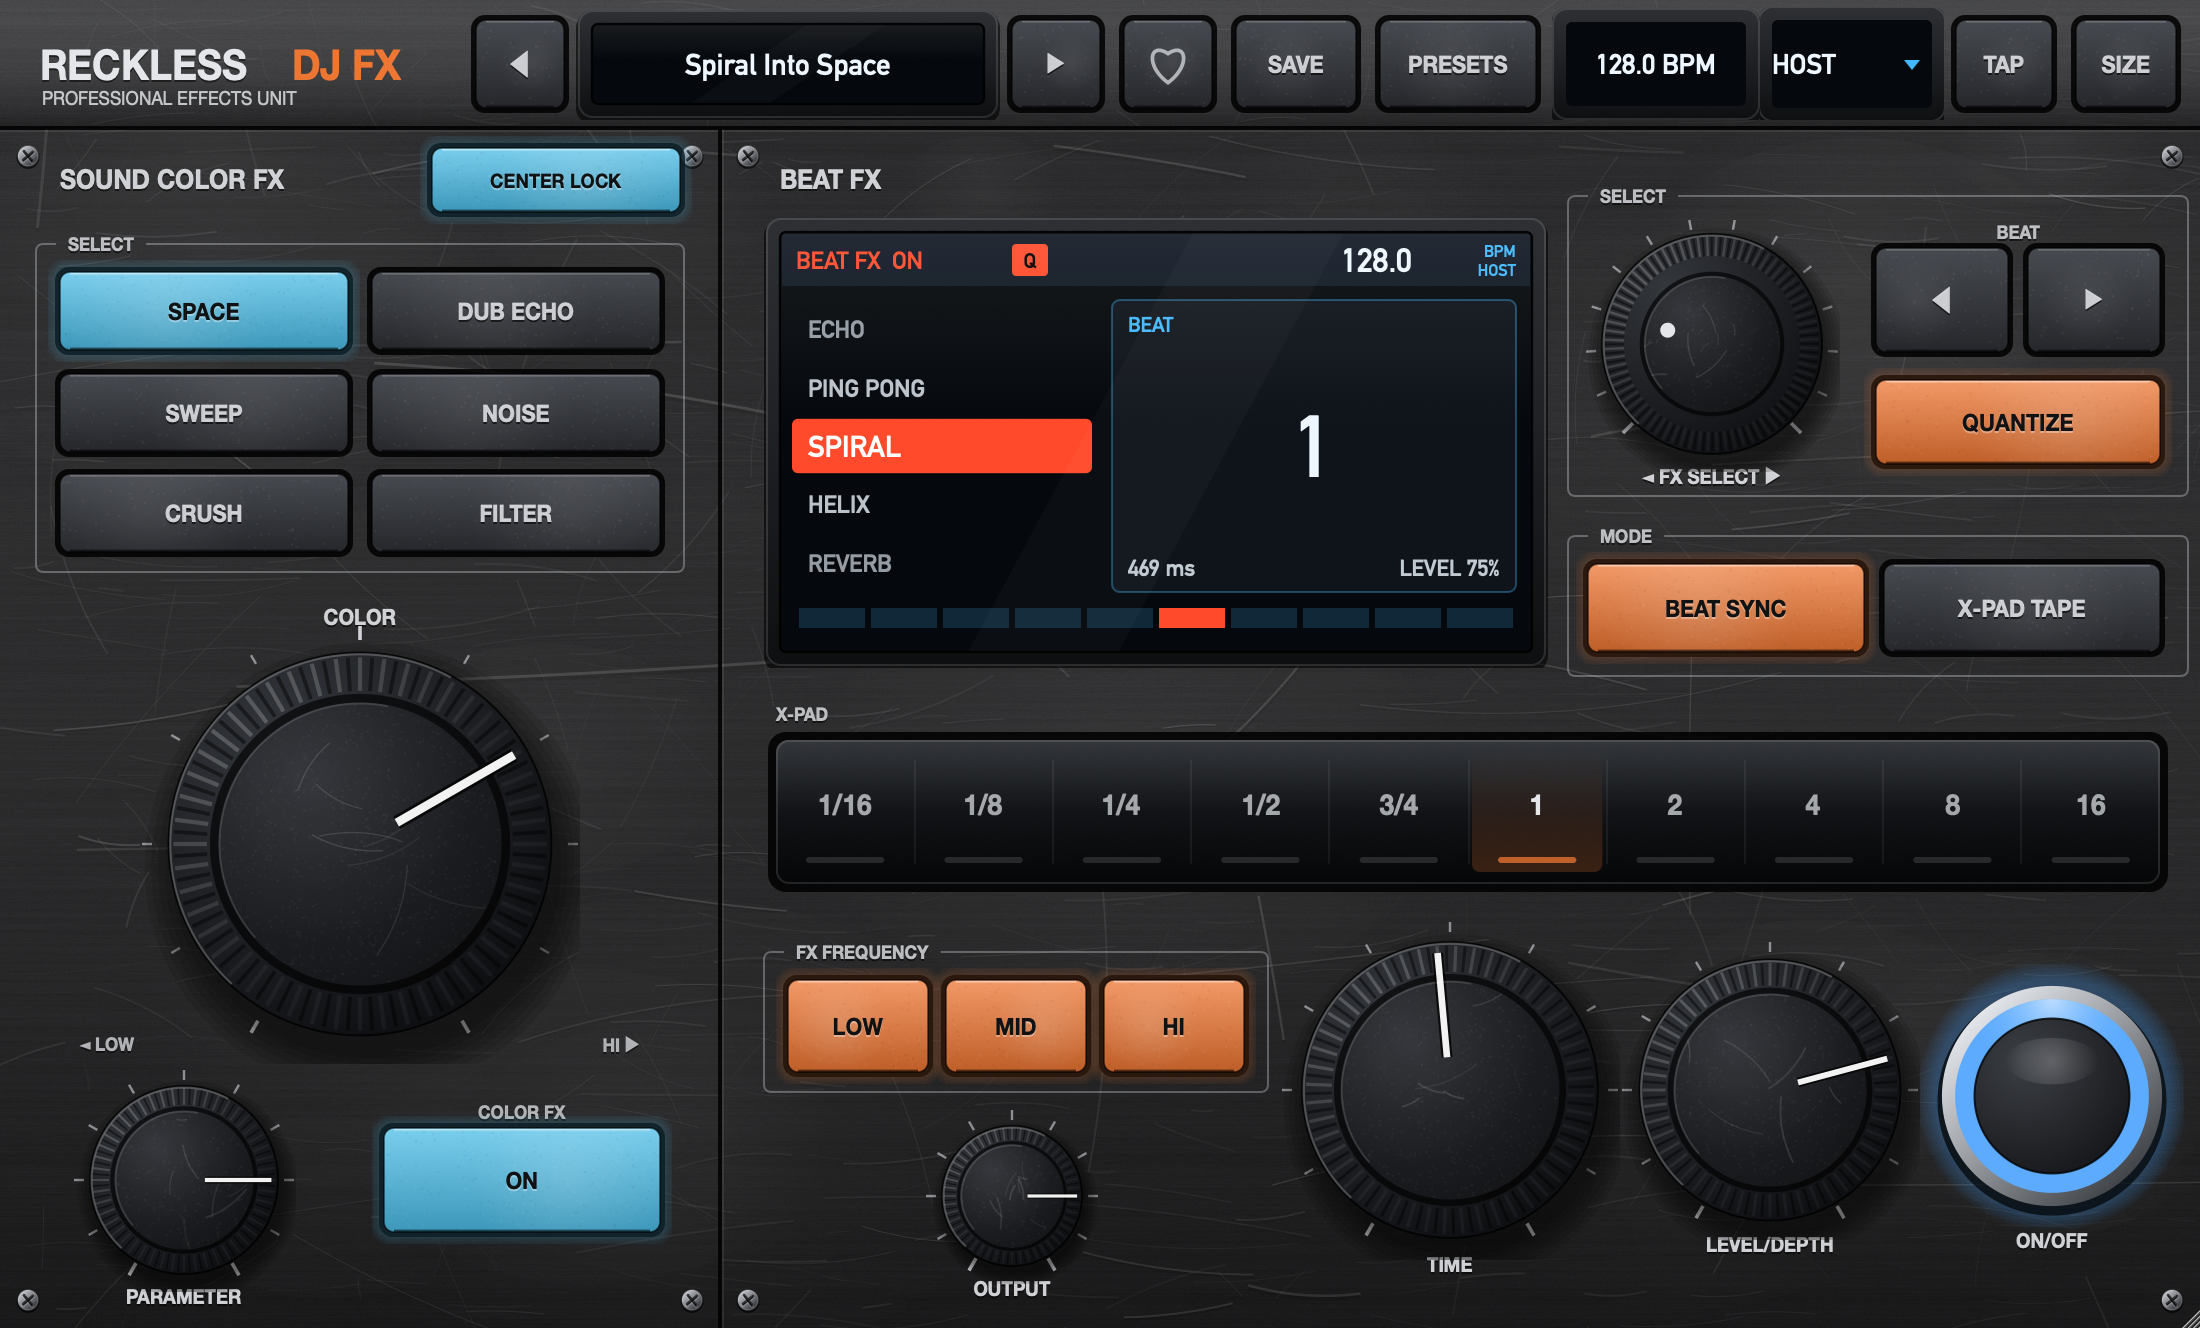
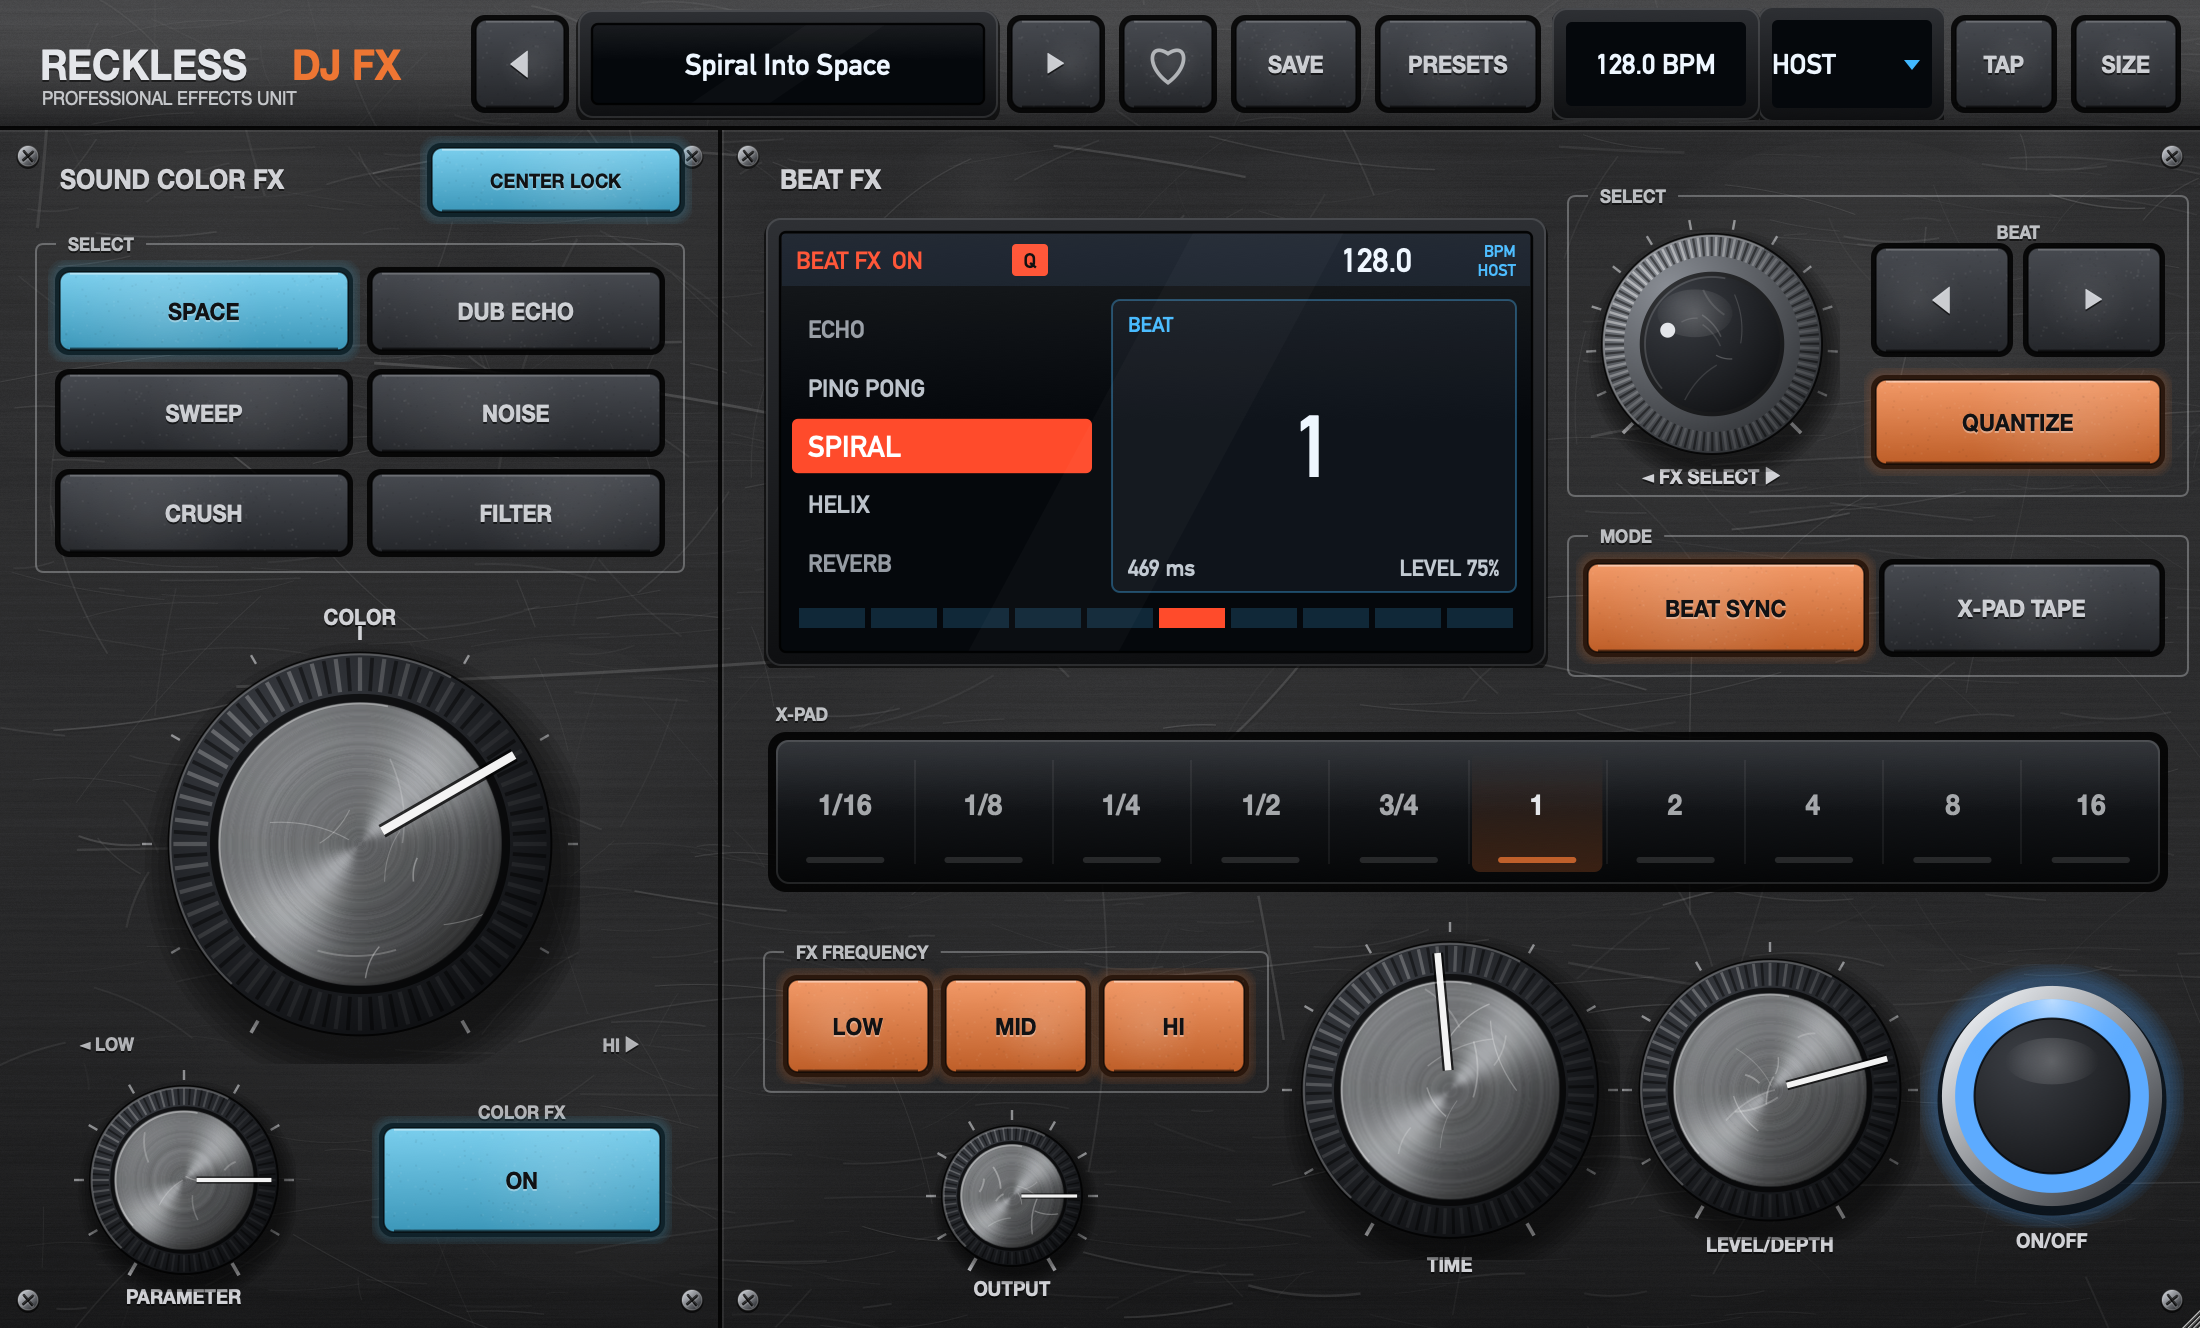
Back to brushed-aluminium knob caps (user preference)
All knobs get the spun-aluminium cap again (PARAMETER and OUTPUT too);
the FX SELECT encoder keeps its metal knurl with a small black cap.
Audit fixes (hover ring, softer LEDs, dark legends...) are kept.

diff --git a/Source/ui/Hardware.cpp b/Source/ui/Hardware.cpp
@@ -70,6 +70,47 @@ void scratch (juce::Graphics& g, juce::Random& rng, juce::Rectangle<float> area,
         g.strokePath (p, juce::PathStrokeType (width * 0.8f));
     }
 }
+/** Spun-aluminium cap rendered per pixel (no wedge seams): light gradient, concentric lathe rings
+    and the anisotropic "bow-tie" highlight typical of turned metal. Cached by pixel size. */
+const juce::Image& spunCap (int diameter, juce::uint32 seed)
+{
+    static std::map<std::pair<int, juce::uint32>, juce::Image> cache;
+    auto key = std::make_pair (diameter, seed);
+    if (auto it = cache.find (key); it != cache.end())
+        return it->second;
+
+    juce::Image img (juce::Image::ARGB, diameter, diameter, true);
+    juce::Random rng ((juce::int64) seed);
+    const float R = (float) diameter * 0.5f;
+    std::vector<float> rings ((size_t) diameter + 2);
+    float drift = 0.0f;
+    for (auto& v : rings)
+    {
+        drift = drift * 0.7f + (rng.nextFloat() - 0.5f) * 0.05f;
+        v = drift + (rng.nextFloat() - 0.5f) * 0.035f;
+    }
+
+    juce::Image::BitmapData data (img, juce::Image::BitmapData::writeOnly);
+    for (int y = 0; y < diameter; ++y)
+        for (int x = 0; x < diameter; ++x)
+        {
+            const float dx = (float) x + 0.5f - R, dy = (float) y + 0.5f - R;
+            const float dist = std::sqrt (dx * dx + dy * dy);
+            if (dist > R + 0.5f)
+                continue;
+            const float edgeAlpha = juce::jlimit (0.0f, 1.0f, R + 0.5f - dist);
+            const float th = std::atan2 (dy, dx);
+            const float lin = -(dx + dy) / (R * 1.4142f);                              // light from top-left
+            const float aniso = std::pow (std::abs (std::cos (th + juce::MathConstants<float>::pi * 0.25f)), 10.0f);
+            const float centreFade = juce::jlimit (0.0f, 1.0f, dist / (R * 0.15f));
+            float lum = 0.58f + 0.22f * lin + 0.40f * aniso * centreFade + rings[(size_t) (dist * 1.6f) % rings.size()];
+            lum -= 0.10f * std::pow (dist / R, 6.0f);                                  // darker rim
+            const auto v = (float) juce::jlimit (0.0f, 1.0f, lum);
+            data.setPixelColour (x, y, juce::Colour::fromFloatRGBA (v * 0.97f, v * 0.985f, v, edgeAlpha));
+        }
+
+    return cache.emplace (key, img).first->second;
+}
 } // namespace
 
 juce::uint32 seedOf (const juce::String& s) { return (juce::uint32) s.hashCode(); }
@@ -253,22 +294,23 @@ void drawKnob (juce::Graphics& g, juce::Rectangle<float> bounds, float angle, Kn
     }
 
     // Skirt
-    const bool fineKnurl = style == KnobStyle::Encoder;
+    const bool metalSkirt = style == KnobStyle::Encoder;
     {
-        juce::ColourGradient grad (juce::Colour (0xff34373c), c.translated (-r * 0.4f, -r * 0.5f),
-                                   juce::Colour (0xff07080a),
+        juce::ColourGradient grad (metalSkirt ? juce::Colour (0xff8a8e95) : juce::Colour (0xff3b3e44),
+                                   c.translated (-r * 0.4f, -r * 0.5f),
+                                   metalSkirt ? juce::Colour (0xff1e2023) : juce::Colour (0xff07080a),
                                    c.translated (r * 0.9f, r * 0.9f), true);
         g.setGradientFill (grad);
         g.fillEllipse (juce::Rectangle<float> (r * 2.0f, r * 2.0f).withCentre (c));
     }
 
     // Knurling (rotates with the knob)
-    const int ridges = fineKnurl ? 72 : 48;
+    const int ridges = metalSkirt ? 72 : 48;
     for (int k = 0; k < ridges; ++k)
     {
         const float th = angle + twoPi * (float) k / (float) ridges;
         const float lit = juce::jmax (0.0f, std::cos (th - kLightDir));
-        g.setColour (juce::Colours::white.withAlpha (0.04f + 0.16f * lit));
+        g.setColour (juce::Colours::white.withAlpha ((metalSkirt ? 0.10f : 0.05f) + (metalSkirt ? 0.35f : 0.20f) * lit));
         g.drawLine ({ polar (c, r * 0.80f, th), polar (c, r * 0.975f, th) }, juce::jmax (0.7f, r * 0.022f));
         const float th2 = th + twoPi * 0.5f / (float) ridges;
         g.setColour (juce::Colours::black.withAlpha (0.45f));
@@ -289,26 +331,26 @@ void drawKnob (juce::Graphics& g, juce::Rectangle<float> bounds, float angle, Kn
     g.setColour (juce::Colours::black.withAlpha (0.65f));
     g.fillEllipse (capRect.expanded (capR * 0.06f));
 
-    // Matte black plastic cap: soft diffuse shading, no specular, fine grain
+    const bool metalCap = style != KnobStyle::Encoder;
+    if (metalCap)
     {
-        juce::ColourGradient grad (juce::Colour (0xff2c2e33), c.translated (-capR * 0.45f, -capR * 0.55f),
-                                   juce::Colour (0xff111214), c.translated (capR * 0.9f, capR * 0.9f), true);
+        // Render the cap at the device resolution so it stays crisp when the editor is scaled up
+        const float pixelScale = juce::jmax (1.0f, g.getInternalContext().getPhysicalPixelScaleFactor());
+        // quantised to 16 px steps so free resizing does not fill the cache with every size
+        const int diameter = juce::jlimit (32, 1024, ((juce::roundToInt (capR * 2.0f * pixelScale) + 15) / 16) * 16);
+        g.drawImage (spunCap (diameter, seed), capRect, juce::RectanglePlacement::stretchToFit);
+    }
+    else
+    {
+        juce::ColourGradient grad (juce::Colour (0xff3a3d43), c.translated (-capR * 0.5f, -capR * 0.6f),
+                                   juce::Colour (0xff0c0d0f), c.translated (capR * 0.9f, capR * 0.9f), true);
         g.setGradientFill (grad);
         g.fillEllipse (capRect);
-        g.setGradientFill (juce::ColourGradient (juce::Colours::white.withAlpha (0.05f), c.translated (-capR * 0.3f, -capR * 0.4f),
-                                                 juce::Colours::transparentWhite, c.translated (capR * 0.6f, capR * 0.2f), true));
-        g.fillEllipse (capRect);
-
-        juce::Graphics::ScopedSaveState save (g);
-        juce::Path clip;
-        clip.addEllipse (capRect);
-        g.reduceClipRegion (clip);
-        const int grains = (int) (capR * capR * 0.35f);
-        for (int i = 0; i < grains; ++i)
-        {
-            g.setColour ((rng.nextBool() ? juce::Colours::white : juce::Colours::black).withAlpha (0.035f));
-            g.fillRect (capRect.getX() + rng.nextFloat() * capRect.getWidth(), capRect.getY() + rng.nextFloat() * capRect.getHeight(), 1.0f, 1.0f);
-        }
+        // Glossy specular blob
+        const auto spec = juce::Rectangle<float> (capR * 1.1f, capR * 0.7f).withCentre (c.translated (-capR * 0.25f, -capR * 0.45f));
+        g.setGradientFill (juce::ColourGradient (juce::Colours::white.withAlpha (0.20f), spec.getCentre(),
+                                                 juce::Colours::transparentWhite, spec.getTopRight(), true));
+        g.fillEllipse (spec);
     }
 
     // Wear: scratches on the cap (rotate with the knob)
@@ -328,7 +370,7 @@ void drawKnob (juce::Graphics& g, juce::Rectangle<float> bounds, float angle, Kn
             s.startNewSubPath (p0);
             s.quadraticTo (p0 + juce::Point<float> (std::cos (dir + 0.3f), std::sin (dir + 0.3f)) * len * 0.5f,
                            p0 + juce::Point<float> (std::cos (dir), std::sin (dir)) * len);
-            g.setColour (juce::Colours::white.withAlpha (0.05f + rng.nextFloat() * 0.08f)); // faint scuffs on matte plastic
+            g.setColour (juce::Colours::white.withAlpha ((metalCap ? 0.18f : 0.10f) + rng.nextFloat() * 0.15f));
             g.strokePath (s, juce::PathStrokeType (0.5f + rng.nextFloat() * 0.5f), rot);
         }
     }
@@ -341,7 +383,7 @@ void drawKnob (juce::Graphics& g, juce::Rectangle<float> bounds, float angle, Kn
     }
     else
     {
-        const auto p0 = polar (c, capR * 0.30f, angle);
+        const auto p0 = polar (c, metalCap ? capR * 0.18f : capR * 0.30f, angle);
         const auto p1 = polar (c, r * 0.93f, angle);
         g.setColour (juce::Colours::black.withAlpha (0.75f));
         g.drawLine ({ p0, p1 }, juce::jmax (2.6f, r * 0.075f));
@@ -350,7 +392,7 @@ void drawKnob (juce::Graphics& g, juce::Rectangle<float> bounds, float angle, Kn
     }
 
     // Cap edge highlight
-    g.setColour (juce::Colours::white.withAlpha (0.12f));
+    g.setColour (juce::Colours::white.withAlpha (metalCap ? 0.35f : 0.15f));
     juce::Path edge;
     edge.addCentredArc (c.x, c.y, capR - 0.6f, capR - 0.6f, 0.0f, -2.3f, 0.2f, true);
     g.strokePath (edge, juce::PathStrokeType (0.9f));

diff --git a/Source/ui/Panels.cpp b/Source/ui/Panels.cpp
@@ -155,8 +155,8 @@ ToggleBtn::ToggleBtn (APVTS& state, const char* paramID, const juce::String& tex
 //==============================================================================
 ColorFxPanel::ColorFxPanel (APVTS& state)
     : types (state, ParamID::colorType, colorFxNames(), 2, Col::colorLed, ParamID::colorOn),
-      colorKnob (state, ParamID::colorAmt, "COLOR", "matte", 11, true, std::make_unique<CenterLockSlider> (state)),
-      paramKnob (state, ParamID::colorParam, "PARAMETER", "matte", 11, false),
+      colorKnob (state, ParamID::colorAmt, "COLOR", "metal", 11, true, std::make_unique<CenterLockSlider> (state)),
+      paramKnob (state, ParamID::colorParam, "PARAMETER", "metal", 11, false),
       onButton (state, ParamID::colorOn, "ON", Col::colorLed),
       lockButton (state, ParamID::centerLock, "CENTER LOCK", Col::colorLed)
 {
@@ -434,9 +434,9 @@ BeatFxPanel::BeatFxPanel (RecklessDJFXProcessor& p)
       screen (p),
       selectKnob (state, ParamID::beatType, "FX SELECT", "encoder", kNumBeatFx, false),
       xpad (state),
-      timeKnob (state, ParamID::timeMs, "TIME", "matte", 11, false),
-      levelKnob (state, ParamID::level, "LEVEL/DEPTH", "matte", 11, false),
-      outKnob (state, ParamID::outGain, "OUTPUT", "matte", 11, false),
+      timeKnob (state, ParamID::timeMs, "TIME", "metal", 11, false),
+      levelKnob (state, ParamID::level, "LEVEL/DEPTH", "metal", 11, false),
+      outKnob (state, ParamID::outGain, "OUTPUT", "metal", 11, false),
       low (state, ParamID::fxLow, "LOW", Col::beatLed),
       mid (state, ParamID::fxMid, "MID", Col::beatLed),
       hi (state, ParamID::fxHi, "HI", Col::beatLed),

diff --git a/Source/ui/Hardware.h b/Source/ui/Hardware.h
@@ -4,7 +4,7 @@
 
 /**
     Procedural "real hardware" rendering: brushed anodised faceplate with scratches and wear,
-    knurled matte-black knobs, back-lit rubber buttons, LCD glass, screws and silk-screen print.
+    knurled knobs with brushed-aluminium caps, back-lit rubber buttons, LCD glass, screws and silk-screen print.
     Everything is drawn in code (no bitmaps shipped) and deterministic, so the wear looks the same every time.
 */
 namespace rdfx::hw
@@ -25,8 +25,8 @@ namespace Col
     inline const juce::Colour lcdBlue    { 0xff41b8ff };
 }
 
-/** All knobs are matte black like the mixer; the encoder has a finer knurl and a dot pointer. */
-enum class KnobStyle { Matte, Encoder };
+/** Every knob has a brushed-aluminium cap; the encoder has a metal knurl, a small black cap and a dot pointer. */
+enum class KnobStyle { Metal, Encoder };
 
 /** Brushed dark metal with scratches, scuffs and edge wear. Cached per size. */
 const juce::Image& faceplate (int width, int height, juce::uint32 seed);

diff --git a/Source/ui/LookAndFeel.cpp b/Source/ui/LookAndFeel.cpp
@@ -53,7 +53,7 @@ void LookAndFeel::drawRotarySlider (juce::Graphics& g, int x, int y, int w, int 
                                     float startAngle, float endAngle, juce::Slider& s)
 {
     const auto style = s.getProperties()["knob"].toString();
-    const auto knobStyle = style == "encoder" ? hw::KnobStyle::Encoder : hw::KnobStyle::Matte;
+    const auto knobStyle = style == "encoder" ? hw::KnobStyle::Encoder : hw::KnobStyle::Metal;
     const int ticks = s.getProperties().getWithDefault ("ticks", 11);
     const bool detent = s.getProperties().getWithDefault ("detent", false);
     const float angle = startAngle + pos * (endAngle - startAngle);

diff --git a/Source/ui/LookAndFeel.h b/Source/ui/LookAndFeel.h
@@ -39,7 +39,7 @@ public:
     juce::Font getLabelFont (juce::Label&) override;
 
     /** Component properties understood by this look:
-          Slider:  "knob" = "matte" | "encoder", "ticks" = int, "detent" = bool
+          Slider:  "knob" = "metal" | "encoder", "ticks" = int, "detent" = bool
           Button:  "btn"  = "round" | "rubber" (default) | "flat" (browser UI)            */
     static juce::Colour accentOf (const juce::Component& c);
     static void setAccent (juce::Component& c, juce::Colour accent);

diff --git a/README.md b/README.md
@@ -42,7 +42,7 @@ Plugin d'effets **VST3 / AU** (macOS, + VST3 Windows via la CI) qui reprend tout
 ## Interface « hardware »
 Toute l'interface est dessinée par le code, sans aucune image embarquée, avec un rendu matériel en 3D :
 - façade en aluminium anodisé brossé, avec rayures, traces d'usure et vis ;
-- potards noir mat à jupe crantée, comme sur la table, avec de légères éraflures qui tournent avec le potard ;
+- potards à jupe crantée et chapeau en alu brossé gris : reflet calculé pixel par pixel et rayures qui tournent avec le potard ;
 - touches en caoutchouc rétroéclairées ;
 - écran couleur avec reflet de vitre ;
 - X-Pad en verre noir ;
